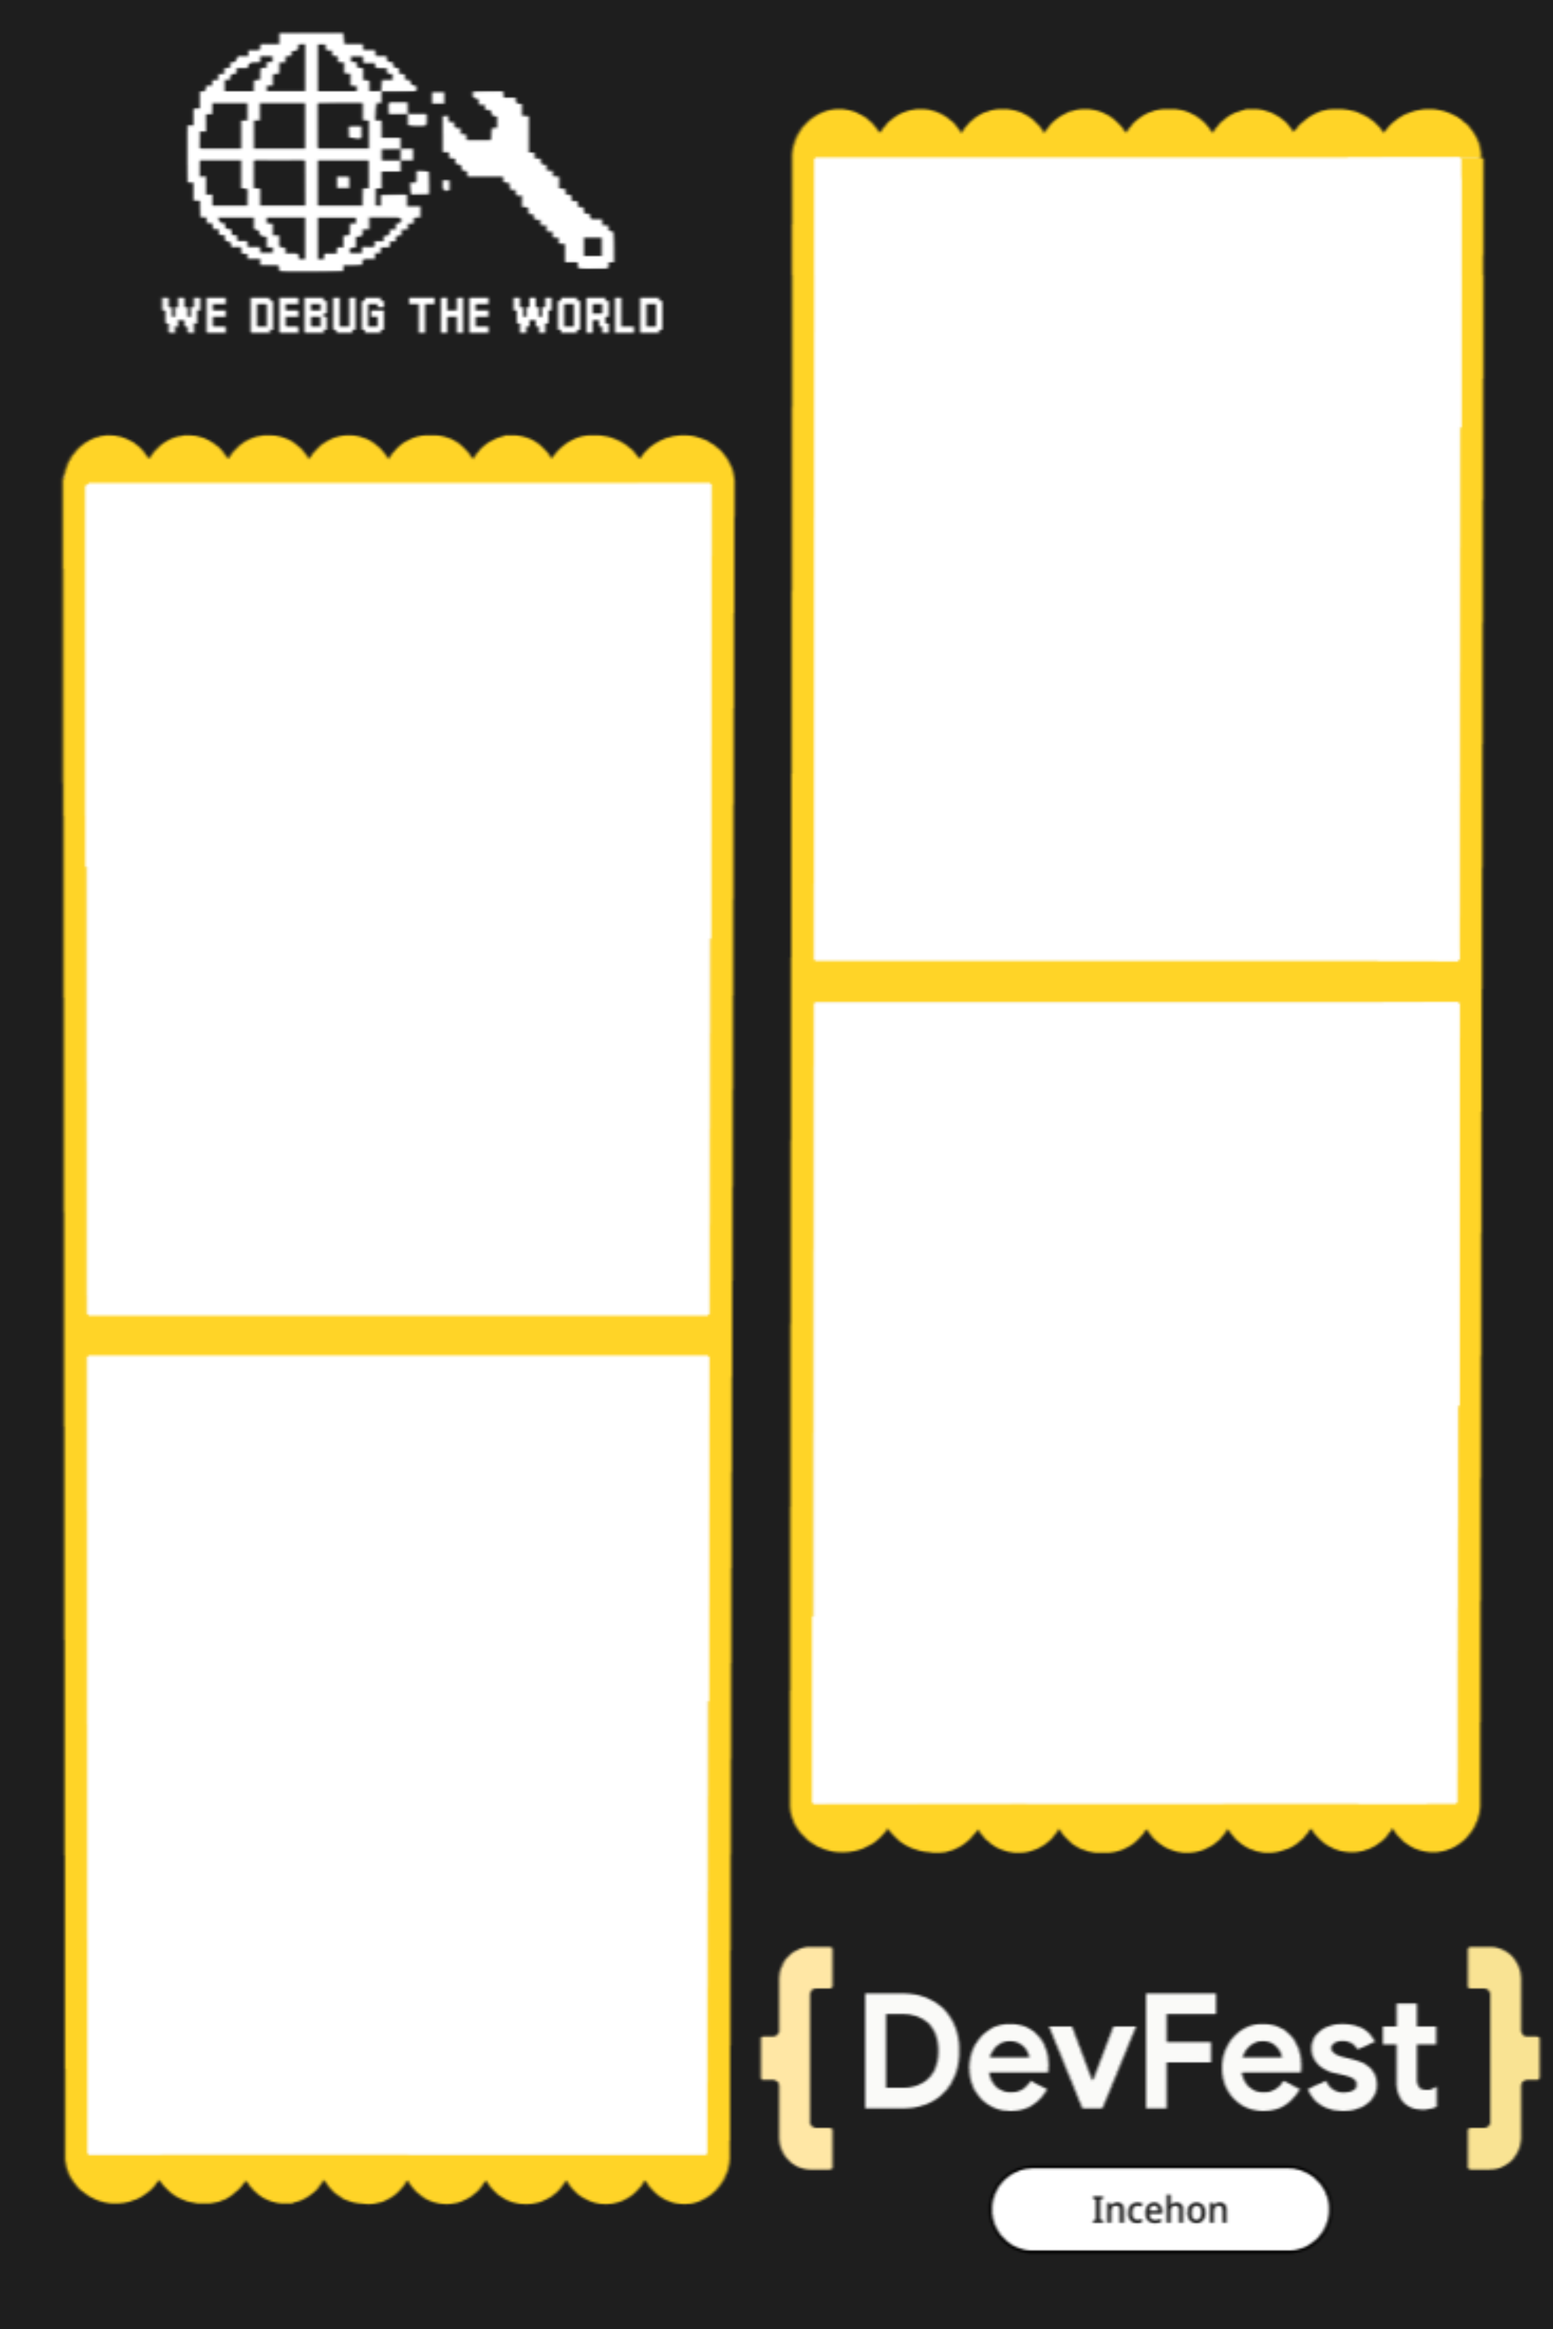
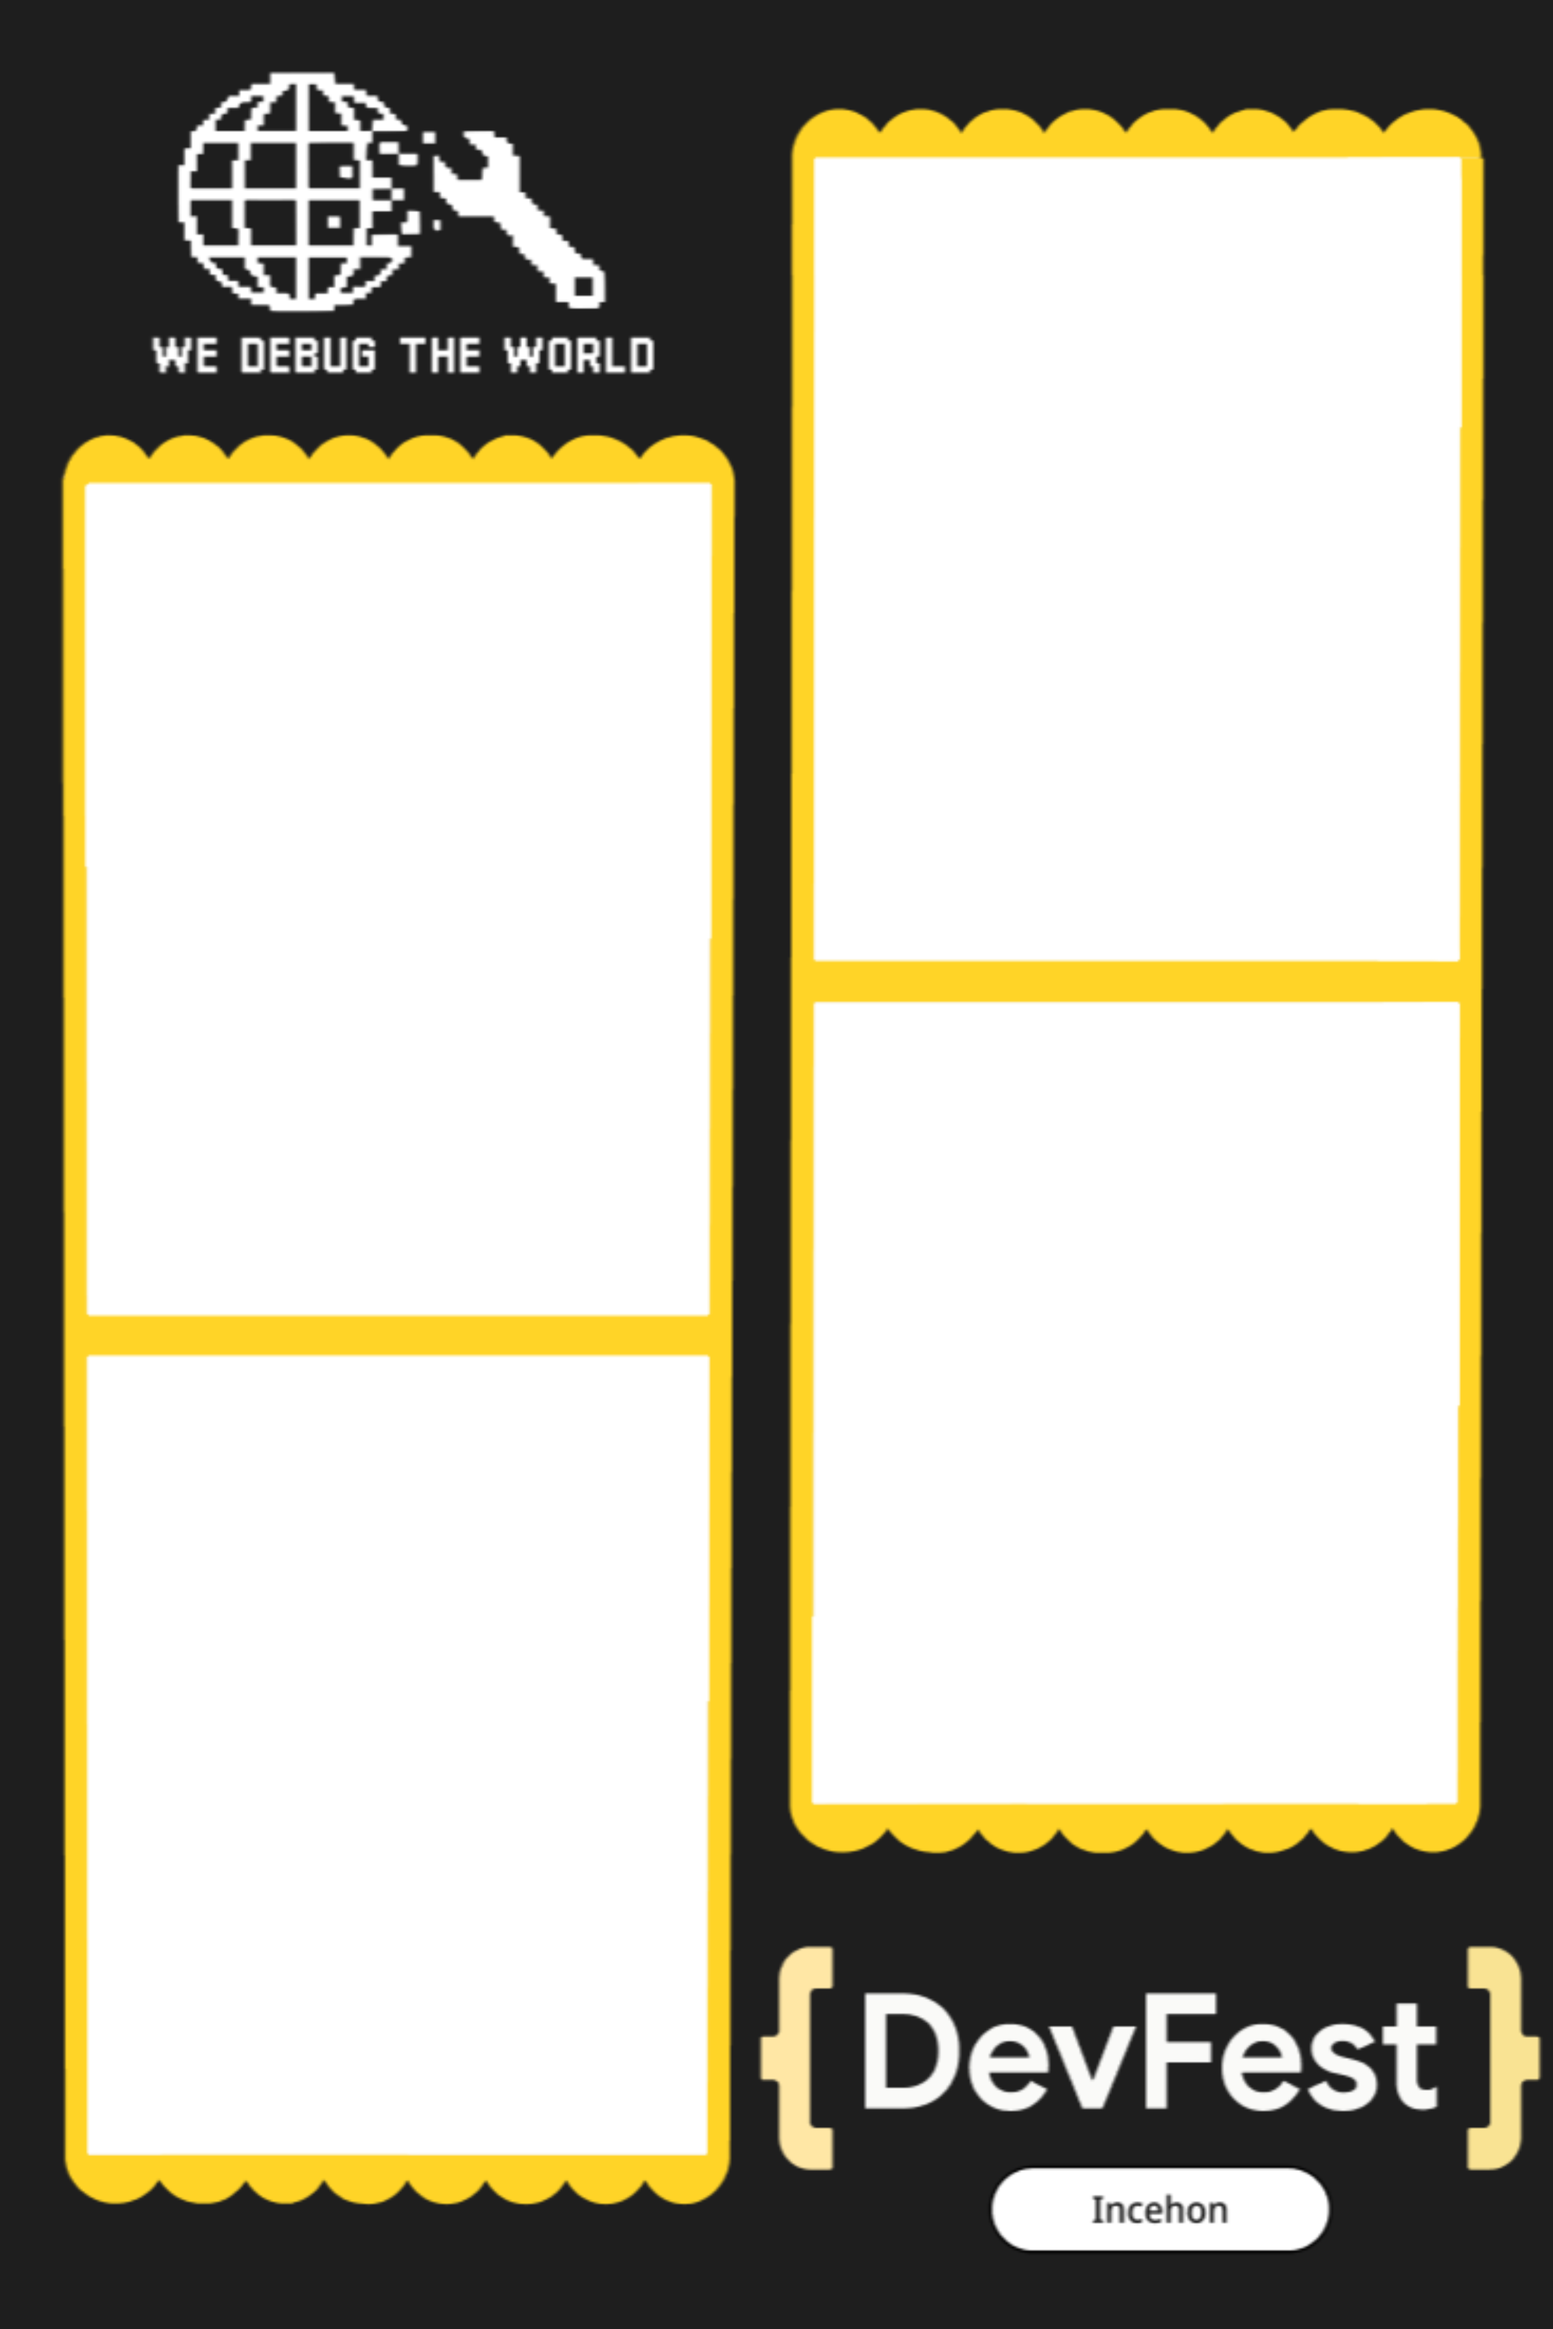
그 보이게 하는 부분 조정

Changed region(s): [[0.0934, 0.0, 0.4357, 0.1875]]

diff --git a/front/src/screen/ChooseScreen.css b/front/src/screen/ChooseScreen.css
@@ -14,24 +14,25 @@
 }
 
 .main-text {
-  height: 10%;
+  height: auto;
+  text-align: center;
   font-size: 45px; /* 폰트 크기 증가 */
   font-family: Tienne-Bold;
   font-weight: normal;
   letter-spacing: normal; 
-  margin-bottom: 3%;
+  /* margin-bottom: 3%; */
 }
 
 .frame-container {
   width: 75%;
-  height: 70%;
+  height: 60%;
   overflow-x: scroll;
   overflow-y: hidden;
   white-space: nowrap;
 }
 
 .frame-container2 {
-  width: 180%;
+  width: 147%;
   height: 100%;
   display: flex;
   align-items: center;
